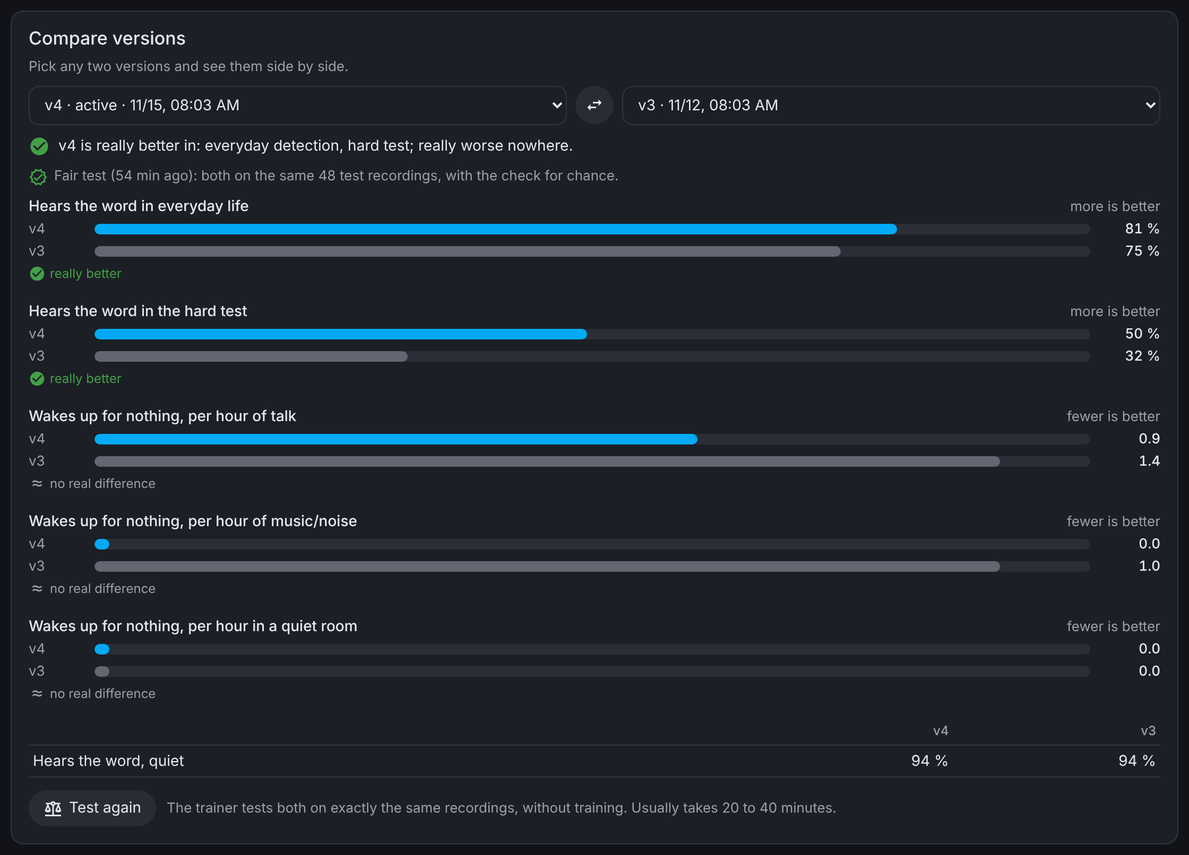
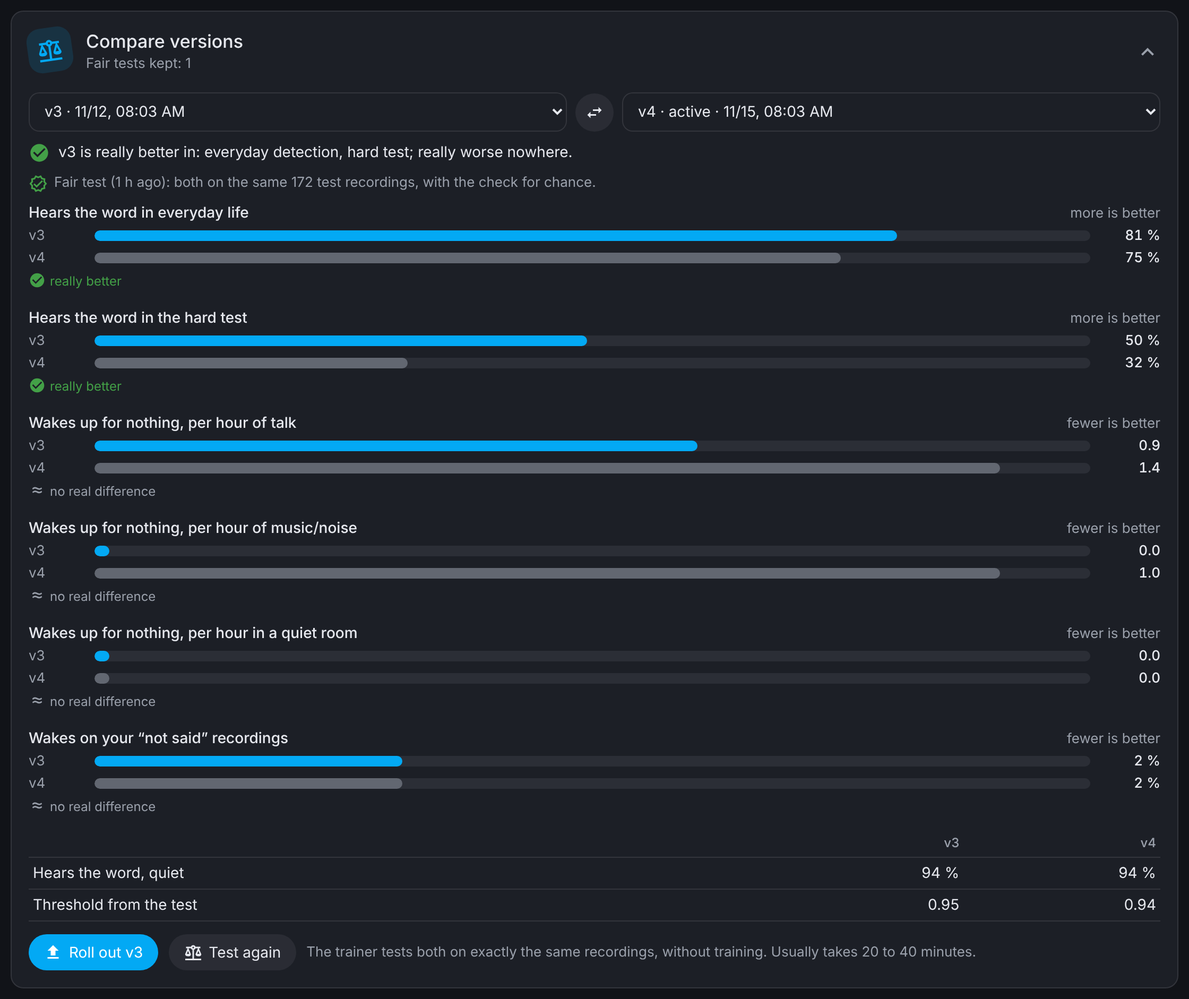
1.0.49: a fair test counts in the version list, roll out from the comparison; trainer 1.0.43 (#64)
- Version list: the state of a version follows a fair test against the
  active version (better / as good / worse, marked as fair test); the
  details show the fair test first, the training run's comparison below
- Compare versions: 'Roll out vN' when the other version is really
  better than the active one; thresholds of a fair test are shown
- Nothing is rolled out by itself after a fair test
- Trainer 1.0.43: a fair test no longer makes training voices (up to
  90 minutes), only the test sets if missing; log says it is a test

Claude-Session: https://claude.ai/code/session_015s6FHN9RtFzjRTkpWD3kXZ

diff --git a/custom_components/sprachmodell/frontend/sprachmodell-texte.js b/custom_components/sprachmodell/frontend/sprachmodell-texte.js
@@ -140,8 +140,9 @@ export const TEXTE = {
     q_modell_schwelle: 'Modell-Schwelle {w}', q_keine: 'Noch keine Version.', q_alltag: 'Im Alltag (aus deinen Antworten)',
     q_schwelle: 'Schwelle aus deinen Antworten', q_vorschlag: 'Vorschlag: <b>{w}</b>', q_jetzt: '(jetzt {w})', q_uebernehmen: 'An den Geräten übernehmen',
     q_vorschlag_spaeter: 'Ein Vorschlag kommt, sobald zur aktiven Version mindestens 10 richtige und 5 falsche Aufwach-Aufnahmen geprüft sind.',
-    q_hand_titel: 'Eigene Schwelle', q_hand_setzen: 'Setzen', q_hand_hilfe: 'Höher = springt seltener grundlos an, hört aber schlechter. Gilt für alle Geräte dieses Worts.', q_hand_auto: 'Setzen schaltet die automatische Anpassung für dieses Wort aus, damit dein Wert bleibt. Unter Training → Automatisch kannst du sie wieder einschalten.', q_hand_info: 'Von Hand am {z} auf {w} gesetzt. Bleibt so, bis du ihn änderst oder die automatische Anpassung einschaltest.', q_hand_frage_auto: 'Schwelle an den Geräten dieses Worts auf {w} setzen? Die automatische Anpassung wird dafür ausgeschaltet.', q_hand_bereich: 'Bitte einen Wert zwischen 0,50 und 0,99 eingeben.', kl_einzelwerte: 'Einzelwerte, Vergleich und je Person', kl_an: 'An: {l}', kl_alles_aus: 'Alles aus', kl_laeufe: '{n} Läufe · zuletzt {e}, {z}', kl_jetzt: 'jetzt {w}', kl_vorschlag: 'Vorschlag {w}', kl_auto: 'passt sich selbst an', kl_hand: 'von Hand', kl_fest: 'fest', kl_versionen: '{n} Versionen · aktiv {a} · neueste {z}', kl_fair: '{n} faire Tests gespeichert', vz_vorbereiten: 'Zutaten', vz_aufnahmen: 'Aufnahmen', vz_pruefdaten: 'Prüfdaten', vz_modelle: 'Versionen holen', vz_urteil: 'Urteil', vz_s_modelle: 'v{a} und v{b} werden aus Home Assistant geholt', vz_s_pruefdaten: 'Prüfdaten bereitstellen: ähnliche Wörter und künstliche Stimmen (meist schon vom letzten Training da)', vz_a_laeuft: 'v{a} wird getestet, v{b} folgt', vz_b_wartet: 'v{b} wird getestet', vz_gleichauf: 'bisher gleichauf', vz_vorn: 'bisher vorn: v{v}', vz_t_lagen: 'Alltagslagen', vz_t_aehnlich: 'Ähnliche Wörter', vz_t_gerede: 'Gespräch', vz_t_geraeusch: 'Musik/Geräusche', vz_t_stille: 'Stiller Raum', vz_fertig: 'fertig getestet', vz_gehoert: '{n} von {g} Aufnahmen', vz_wartet: 'wartet', vz_fehl_wert: '{n} in {m} min', vz_hoert: 'Hört das Wort', vz_hart: 'Härtetest', vz_springt: 'Springt grundlos an', vz_f_gerede: 'Gespräch', vz_f_geraeusch: 'Musik/Geräusche', vz_f_stille: 'Stiller Raum', vz_vorlaeufig: 'Live-Zwischenstand bei Schwelle 0,90. Das Urteil am Ende nutzt die getestete Schwelle und die Prüfung auf Zufall.', vz_s_urteil: 'Beide sind getestet, das Urteil wird berechnet und an Home Assistant geschickt.', s_vgl_modelle: 'v{a} und v{b} holen', s_vgl_a: 'v{a} testen', s_vgl_b: 'v{b} testen', s_vgl_urteil: 'Urteil v{a} gegen v{b}', vf_titel: 'Versionen vergleichen', vf_hilfe: 'Zwei beliebige Versionen wählen und nebeneinander sehen.', vf_version: 'Version', vf_aktiv: 'aktiv', vf_tauschen: 'Tauschen', vf_gleich_lauf: 'Im selben Lauf auf denselben Aufnahmen gemessen (beim Training von v{v}), mit Prüfung auf Zufall.', vf_getrennt: 'Werte aus getrennten Läufen: v{a} und v{b} wurden zu verschiedenen Zeiten auf verschiedenen Testaufnahmen gemessen. Nur grob vergleichbar, ein fairer Test sagt es genau.', vf_fair: 'Fairer Test ({z}): beide auf denselben {n} Testaufnahmen, mit Prüfung auf Zufall.', vf_ruhig: 'Hört das Wort, ruhig', vf_u_besser: 'v{a} ist wirklich besser bei: {k}; nirgends wirklich schlechter.', vf_u_schlechter: 'v{a} ist wirklich schlechter bei: {k}.', vf_u_gleich: 'Kein echter Unterschied zwischen v{a} und v{b}.', vf_schwelle: 'Schwelle aus dem Test', vf_testaufnahmen: 'Testaufnahmen mit dem Wort', vf_fair_testen: 'Fair testen', vf_neu_testen: 'Neu testen', vf_fair_hilfe: 'Der Trainer testet beide auf genau denselben Aufnahmen, ohne zu trainieren. Dauert meist 20 bis 40 Minuten.', vf_trainer_alt: 'Dafür braucht der Trainer Version 1.0.40 oder neuer (Einstellungen → Trainer → neu starten holt sie).', vf_belegt: 'Geht, sobald der Trainer mit diesem Wort fertig ist.', vf_frage: 'v{a} und v{b} jetzt fair testen? Der Trainer ist dabei etwa 20 bis 40 Minuten belegt.', vf_gestartet: 'Fairer Test ist in der Reihe.', vf_wartet: 'Fairer Test v{a} gegen v{b} wartet auf den Trainer.', vf_laeuft_jetzt: 'Fairer Test v{a} gegen v{b} läuft.', vf_zum_training: 'Fortschritt ansehen', vf_titel_lauf: 'Fairer Test: v{a} gegen v{b} (kein Training)', vf_fertig: 'Fairer Test v{a} gegen v{b} ist fertig.', vf_ansehen: 'Ergebnis ansehen', grund_vergleich: 'fairer Test zweier Versionen', f_trainer_zu_alt: 'Der Trainer ist zu alt für den fairen Test (braucht 1.0.40)', f_laeuft_schon: 'Für dieses Wort läuft schon etwas', f_gleiche_version: 'Bitte zwei verschiedene Versionen wählen',q_legende: 'Grün = Wort gesagt, Rot = nicht gesagt, Strich = jetzige Schwelle, gestrichelt = Vorschlag. Ein Fehlauslöser zählt so schwer wie drei verpasste Worte.', q_legende_hand: 'Nichts ändert sich von selbst.',
+    q_hand_titel: 'Eigene Schwelle', q_hand_setzen: 'Setzen', q_hand_hilfe: 'Höher = springt seltener grundlos an, hört aber schlechter. Gilt für alle Geräte dieses Worts.', q_hand_auto: 'Setzen schaltet die automatische Anpassung für dieses Wort aus, damit dein Wert bleibt. Unter Training → Automatisch kannst du sie wieder einschalten.', q_hand_info: 'Von Hand am {z} auf {w} gesetzt. Bleibt so, bis du ihn änderst oder die automatische Anpassung einschaltest.', q_hand_frage_auto: 'Schwelle an den Geräten dieses Worts auf {w} setzen? Die automatische Anpassung wird dafür ausgeschaltet.', q_hand_bereich: 'Bitte einen Wert zwischen 0,50 und 0,99 eingeben.', kl_einzelwerte: 'Einzelwerte, Vergleich und je Person', kl_an: 'An: {l}', kl_alles_aus: 'Alles aus', kl_laeufe: '{n} Läufe · zuletzt {e}, {z}', kl_jetzt: 'jetzt {w}', kl_vorschlag: 'Vorschlag {w}', kl_auto: 'passt sich selbst an', kl_hand: 'von Hand', kl_fest: 'fest', kl_versionen: '{n} Versionen · aktiv {a} · neueste {z}', kl_fair: 'Gespeicherte faire Tests: {n}', vz_vorbereiten: 'Zutaten', vz_aufnahmen: 'Aufnahmen', vz_pruefdaten: 'Prüfdaten', vz_modelle: 'Versionen holen', vz_urteil: 'Urteil', vz_s_modelle: 'v{a} und v{b} werden aus Home Assistant geholt', vz_s_pruefdaten: 'Prüfdaten bereitstellen: ähnliche Wörter und künstliche Stimmen (meist schon vom letzten Training da)', vz_a_laeuft: 'v{a} wird getestet, v{b} folgt', vz_b_wartet: 'v{b} wird getestet', vz_gleichauf: 'bisher gleichauf', vz_vorn: 'bisher vorn: v{v}', vz_t_lagen: 'Alltagslagen', vz_t_aehnlich: 'Ähnliche Wörter', vz_t_gerede: 'Gespräch', vz_t_geraeusch: 'Musik/Geräusche', vz_t_stille: 'Stiller Raum', vz_fertig: 'fertig getestet', vz_gehoert: '{n} von {g} Aufnahmen', vz_wartet: 'wartet', vz_fehl_wert: '{n} in {m} min', vz_hoert: 'Hört das Wort', vz_hart: 'Härtetest', vz_springt: 'Springt grundlos an', vz_f_gerede: 'Gespräch', vz_f_geraeusch: 'Musik/Geräusche', vz_f_stille: 'Stiller Raum', vz_vorlaeufig: 'Live-Zwischenstand bei Schwelle 0,90. Das Urteil am Ende nutzt die getestete Schwelle und die Prüfung auf Zufall.', vz_s_urteil: 'Beide sind getestet, das Urteil wird berechnet und an Home Assistant geschickt.', s_vgl_modelle: 'v{a} und v{b} holen', s_vgl_a: 'v{a} testen', s_vgl_b: 'v{b} testen', s_vgl_urteil: 'Urteil v{a} gegen v{b}', vf_titel: 'Versionen vergleichen', vf_hilfe: 'Zwei beliebige Versionen wählen und nebeneinander sehen.', vf_version: 'Version', vf_aktiv: 'aktiv', vf_tauschen: 'Tauschen', vf_gleich_lauf: 'Im selben Lauf auf denselben Aufnahmen gemessen (beim Training von v{v}), mit Prüfung auf Zufall.', vf_getrennt: 'Werte aus getrennten Läufen: v{a} und v{b} wurden zu verschiedenen Zeiten auf verschiedenen Testaufnahmen gemessen. Nur grob vergleichbar, ein fairer Test sagt es genau.', vf_fair: 'Fairer Test ({z}): beide auf denselben {n} Testaufnahmen, mit Prüfung auf Zufall.', vf_ruhig: 'Hört das Wort, ruhig', vf_u_besser: 'v{a} ist wirklich besser bei: {k}; nirgends wirklich schlechter.', vf_u_schlechter: 'v{a} ist wirklich schlechter bei: {k}.', vf_u_gleich: 'Kein echter Unterschied zwischen v{a} und v{b}.', vf_schwelle: 'Schwelle aus dem Test', vf_testaufnahmen: 'Testaufnahmen mit dem Wort', vf_fair_testen: 'Fair testen', vf_neu_testen: 'Neu testen', vf_fair_hilfe: 'Der Trainer testet beide auf genau denselben Aufnahmen, ohne zu trainieren. Dauert meist 20 bis 40 Minuten.', vf_trainer_alt: 'Dafür braucht der Trainer Version 1.0.40 oder neuer (Einstellungen → Trainer → neu starten holt sie).', vf_belegt: 'Geht, sobald der Trainer mit diesem Wort fertig ist.', vf_frage: 'v{a} und v{b} jetzt fair testen? Der Trainer ist dabei etwa 20 bis 40 Minuten belegt.', vf_gestartet: 'Fairer Test ist in der Reihe.', vf_wartet: 'Fairer Test v{a} gegen v{b} wartet auf den Trainer.', vf_laeuft_jetzt: 'Fairer Test v{a} gegen v{b} läuft.', vf_zum_training: 'Fortschritt ansehen', vf_titel_lauf: 'Fairer Test: v{a} gegen v{b} (kein Training)', vf_fertig: 'Fairer Test v{a} gegen v{b} ist fertig.', vf_ansehen: 'Ergebnis ansehen', grund_vergleich: 'fairer Test zweier Versionen', f_trainer_zu_alt: 'Der Trainer ist zu alt für den fairen Test (braucht 1.0.40)', f_laeuft_schon: 'Für dieses Wort läuft schon etwas', f_gleiche_version: 'Bitte zwei verschiedene Versionen wählen',q_legende: 'Grün = Wort gesagt, Rot = nicht gesagt, Strich = jetzige Schwelle, gestrichelt = Vorschlag. Ein Fehlauslöser zählt so schwer wie drei verpasste Worte.', q_legende_hand: 'Nichts ändert sich von selbst.',
     q_keine_werte: 'Noch keine geprüften Aufnahmen mit Wert.', q_versionen: 'Versionen', q_version: 'Version', q_stand: 'Stand',
+    s_fair_besser: 'besser (fairer Test)', s_fair_gleich: 'gleich gut (fairer Test)', s_fair_schlechter: 'schlechter (fairer Test)', q_fair_hinweis: 'Fairer Test ({z}) gegen die aktive v{b}, beide auf denselben {n} Testaufnahmen. Er ist neuer als der Vergleich aus dem Training und bestimmt deshalb den Stand. Eingespielt wird nur, wenn du es antippst.', q_lauf_titel: 'Beim Training gemessen', vf_einspielen: 'v{n} einspielen',
     s_aktiv: 'aktiv', s_frueher: 'früher', s_geprueft: 'besser, nicht eingespielt', s_verworfen: 'nicht besser', s_neu: 'neu',
     q_einspielen: 'Einspielen', q_einspielen_frage: 'Version v{n} an den Geräten dieses Worts einspielen? Sie ist nach dem nächsten Neustart von Home Assistant auf den Geräten (eine Reparaturmeldung bietet ihn an).',
     q_schwelle_frage: 'Schwelle an den Geräten dieses Worts auf {w} setzen?', q_schwelle_ok: 'Schwelle gesetzt.', q_wird: 'Version v{n} ist bereit – nach einem Neustart von Home Assistant ist sie auf den Geräten.',
@@ -356,8 +357,9 @@ export const TEXTE = {
     q_modell_schwelle: 'Model threshold {w}', q_keine: 'No version yet.', q_alltag: 'In daily use (from your answers)',
     q_schwelle: 'Threshold from your answers', q_vorschlag: 'Suggestion: <b>{w}</b>', q_jetzt: '(now {w})', q_uebernehmen: 'Apply to the devices',
     q_vorschlag_spaeter: 'A suggestion appears once at least 10 correct and 5 false wake-ups of the active version are reviewed.',
-    q_hand_titel: 'Your own threshold', q_hand_setzen: 'Set', q_hand_hilfe: 'Higher = fewer false wakes, but hears less. Applies to all devices of this word.', q_hand_auto: 'Setting it switches the automatic adjustment off for this word so your value stays. Switch it on again under Training → Automatic.', q_hand_info: 'Set by hand on {z} to {w}. Stays until you change it or switch the automatic adjustment on.', q_hand_frage_auto: 'Set the threshold on this word’s devices to {w}? The automatic adjustment is switched off for it.', q_hand_bereich: 'Please enter a value between 0.50 and 0.99.', kl_einzelwerte: 'Detailed figures, comparison and per person', kl_an: 'On: {l}', kl_alles_aus: 'All off', kl_laeufe: '{n} runs · last {e}, {z}', kl_jetzt: 'now {w}', kl_vorschlag: 'suggestion {w}', kl_auto: 'adjusts itself', kl_hand: 'set by hand', kl_fest: 'fixed', kl_versionen: '{n} versions · active {a} · newest {z}', kl_fair: '{n} fair tests kept', vz_vorbereiten: 'Ingredients', vz_aufnahmen: 'Recordings', vz_pruefdaten: 'Check data', vz_modelle: 'Fetch versions', vz_urteil: 'Verdict', vz_s_modelle: 'Fetching v{a} and v{b} from Home Assistant', vz_s_pruefdaten: 'Preparing check data: similar words and synthetic voices (usually still there from the last training)', vz_a_laeuft: 'Testing v{a}, v{b} follows', vz_b_wartet: 'Testing v{b}', vz_gleichauf: 'level so far', vz_vorn: 'ahead so far: v{v}', vz_t_lagen: 'Everyday conditions', vz_t_aehnlich: 'Similar words', vz_t_gerede: 'Talk', vz_t_geraeusch: 'Music/noise', vz_t_stille: 'Quiet room', vz_fertig: 'tested', vz_gehoert: '{n} of {g} recordings', vz_wartet: 'waiting', vz_fehl_wert: '{n} in {m} min', vz_hoert: 'Hears the word', vz_hart: 'Hard test', vz_springt: 'Wakes up for nothing', vz_f_gerede: 'Talk', vz_f_geraeusch: 'Music/noise', vz_f_stille: 'Quiet room', vz_vorlaeufig: 'Live interim figures at threshold 0.90. The verdict at the end uses the tested threshold and the check for chance.', vz_s_urteil: 'Both are tested; the verdict is being worked out and sent to Home Assistant.', s_vgl_modelle: 'Fetching v{a} and v{b}', s_vgl_a: 'Testing v{a}', s_vgl_b: 'Testing v{b}', s_vgl_urteil: 'Verdict v{a} against v{b}', vf_titel: 'Compare versions', vf_hilfe: 'Pick any two versions and see them side by side.', vf_version: 'Version', vf_aktiv: 'active', vf_tauschen: 'Swap', vf_gleich_lauf: 'Measured in the same run on the same recordings (when v{v} was trained), with the check for chance.', vf_getrennt: 'Figures from separate runs: v{a} and v{b} were measured at different times on different test recordings. Only roughly comparable; a fair test tells exactly.', vf_fair: 'Fair test ({z}): both on the same {n} test recordings, with the check for chance.', vf_ruhig: 'Hears the word, quiet', vf_u_besser: 'v{a} is really better in: {k}; really worse nowhere.', vf_u_schlechter: 'v{a} is really worse in: {k}.', vf_u_gleich: 'No real difference between v{a} and v{b}.', vf_schwelle: 'Threshold from the test', vf_testaufnahmen: 'Test recordings with the word', vf_fair_testen: 'Fair test', vf_neu_testen: 'Test again', vf_fair_hilfe: 'The trainer tests both on exactly the same recordings, without training. Usually takes 20 to 40 minutes.', vf_trainer_alt: 'This needs trainer version 1.0.40 or newer (Settings → Trainer → restart fetches it).', vf_belegt: 'Possible once the trainer is done with this word.', vf_frage: 'Test v{a} and v{b} fairly now? The trainer is busy for about 20 to 40 minutes.', vf_gestartet: 'Fair test is queued.', vf_wartet: 'Fair test v{a} against v{b} is waiting for the trainer.', vf_laeuft_jetzt: 'Fair test v{a} against v{b} is running.', vf_zum_training: 'See progress', vf_titel_lauf: 'Fair test: v{a} against v{b} (no training)', vf_fertig: 'Fair test v{a} against v{b} is done.', vf_ansehen: 'See the result', grund_vergleich: 'fair test of two versions', f_trainer_zu_alt: 'The trainer is too old for the fair test (needs 1.0.40)', f_laeuft_schon: 'Something is already running for this word', f_gleiche_version: 'Please pick two different versions',q_legende: 'Green = word said, red = not said, line = current threshold, dashed = suggestion. One false wake weighs as much as three missed words.', q_legende_hand: 'Nothing changes by itself.',
+    q_hand_titel: 'Your own threshold', q_hand_setzen: 'Set', q_hand_hilfe: 'Higher = fewer false wakes, but hears less. Applies to all devices of this word.', q_hand_auto: 'Setting it switches the automatic adjustment off for this word so your value stays. Switch it on again under Training → Automatic.', q_hand_info: 'Set by hand on {z} to {w}. Stays until you change it or switch the automatic adjustment on.', q_hand_frage_auto: 'Set the threshold on this word’s devices to {w}? The automatic adjustment is switched off for it.', q_hand_bereich: 'Please enter a value between 0.50 and 0.99.', kl_einzelwerte: 'Detailed figures, comparison and per person', kl_an: 'On: {l}', kl_alles_aus: 'All off', kl_laeufe: '{n} runs · last {e}, {z}', kl_jetzt: 'now {w}', kl_vorschlag: 'suggestion {w}', kl_auto: 'adjusts itself', kl_hand: 'set by hand', kl_fest: 'fixed', kl_versionen: '{n} versions · active {a} · newest {z}', kl_fair: 'Fair tests kept: {n}', vz_vorbereiten: 'Ingredients', vz_aufnahmen: 'Recordings', vz_pruefdaten: 'Check data', vz_modelle: 'Fetch versions', vz_urteil: 'Verdict', vz_s_modelle: 'Fetching v{a} and v{b} from Home Assistant', vz_s_pruefdaten: 'Preparing check data: similar words and synthetic voices (usually still there from the last training)', vz_a_laeuft: 'Testing v{a}, v{b} follows', vz_b_wartet: 'Testing v{b}', vz_gleichauf: 'level so far', vz_vorn: 'ahead so far: v{v}', vz_t_lagen: 'Everyday conditions', vz_t_aehnlich: 'Similar words', vz_t_gerede: 'Talk', vz_t_geraeusch: 'Music/noise', vz_t_stille: 'Quiet room', vz_fertig: 'tested', vz_gehoert: '{n} of {g} recordings', vz_wartet: 'waiting', vz_fehl_wert: '{n} in {m} min', vz_hoert: 'Hears the word', vz_hart: 'Hard test', vz_springt: 'Wakes up for nothing', vz_f_gerede: 'Talk', vz_f_geraeusch: 'Music/noise', vz_f_stille: 'Quiet room', vz_vorlaeufig: 'Live interim figures at threshold 0.90. The verdict at the end uses the tested threshold and the check for chance.', vz_s_urteil: 'Both are tested; the verdict is being worked out and sent to Home Assistant.', s_vgl_modelle: 'Fetching v{a} and v{b}', s_vgl_a: 'Testing v{a}', s_vgl_b: 'Testing v{b}', s_vgl_urteil: 'Verdict v{a} against v{b}', vf_titel: 'Compare versions', vf_hilfe: 'Pick any two versions and see them side by side.', vf_version: 'Version', vf_aktiv: 'active', vf_tauschen: 'Swap', vf_gleich_lauf: 'Measured in the same run on the same recordings (when v{v} was trained), with the check for chance.', vf_getrennt: 'Figures from separate runs: v{a} and v{b} were measured at different times on different test recordings. Only roughly comparable; a fair test tells exactly.', vf_fair: 'Fair test ({z}): both on the same {n} test recordings, with the check for chance.', vf_ruhig: 'Hears the word, quiet', vf_u_besser: 'v{a} is really better in: {k}; really worse nowhere.', vf_u_schlechter: 'v{a} is really worse in: {k}.', vf_u_gleich: 'No real difference between v{a} and v{b}.', vf_schwelle: 'Threshold from the test', vf_testaufnahmen: 'Test recordings with the word', vf_fair_testen: 'Fair test', vf_neu_testen: 'Test again', vf_fair_hilfe: 'The trainer tests both on exactly the same recordings, without training. Usually takes 20 to 40 minutes.', vf_trainer_alt: 'This needs trainer version 1.0.40 or newer (Settings → Trainer → restart fetches it).', vf_belegt: 'Possible once the trainer is done with this word.', vf_frage: 'Test v{a} and v{b} fairly now? The trainer is busy for about 20 to 40 minutes.', vf_gestartet: 'Fair test is queued.', vf_wartet: 'Fair test v{a} against v{b} is waiting for the trainer.', vf_laeuft_jetzt: 'Fair test v{a} against v{b} is running.', vf_zum_training: 'See progress', vf_titel_lauf: 'Fair test: v{a} against v{b} (no training)', vf_fertig: 'Fair test v{a} against v{b} is done.', vf_ansehen: 'See the result', grund_vergleich: 'fair test of two versions', f_trainer_zu_alt: 'The trainer is too old for the fair test (needs 1.0.40)', f_laeuft_schon: 'Something is already running for this word', f_gleiche_version: 'Please pick two different versions',q_legende: 'Green = word said, red = not said, line = current threshold, dashed = suggestion. One false wake weighs as much as three missed words.', q_legende_hand: 'Nothing changes by itself.',
     q_keine_werte: 'No reviewed recordings with a score yet.', q_versionen: 'Versions', q_version: 'Version', q_stand: 'State',
+    s_fair_besser: 'better (fair test)', s_fair_gleich: 'as good (fair test)', s_fair_schlechter: 'worse (fair test)', q_fair_hinweis: 'Fair test ({z}) against the active v{b}, both on the same {n} test recordings. It is newer than the comparison from the training run, so it sets the state. It is rolled out only when you tap it.', q_lauf_titel: 'Measured at the training run', vf_einspielen: 'Roll out v{n}',
     s_aktiv: 'active', s_frueher: 'earlier', s_geprueft: 'better, not rolled out', s_verworfen: 'not better', s_neu: 'new',
     q_einspielen: 'Roll out', q_einspielen_frage: 'Roll out version v{n} to this word’s devices? It reaches them after the next restart of Home Assistant (a repair notice offers it).',
     q_schwelle_frage: 'Set the threshold on this word’s devices to {w}?', q_schwelle_ok: 'Threshold set.', q_wird: 'Version v{n} is ready – after a restart of Home Assistant the devices have it.',

diff --git a/custom_components/sprachmodell/frontend/sprachmodell-panel.js b/custom_components/sprachmodell/frontend/sprachmodell-panel.js
@@ -10,7 +10,7 @@ const TEXTE_DA = import(`./sprachmodell-texte.js${new URL(import.meta.url).searc
   .then((m) => { TEXTE = m.TEXTE; SPRACHNAMEN = m.SPRACHNAMEN; })
   .catch((e) => console.error('Wake Word Studio: texts could not be loaded', e));
 
-const VERSION = '1.0.48';
+const VERSION = '1.0.49';
 const KURVE_VERSIONEN = 12; // how many of the newest versions the curve shows
 const REPO = 'https://github.com/Wadim-dev/WakeWordStudio_ha';
 const BILD = 'ghcr.io/wadim-dev/wake-word-studio-trainer:latest';
@@ -488,6 +488,7 @@ main:not(.still) .ku-linie{animation:ku-zeichnen 1.6s cubic-bezier(.3,.7,.3,1) b
 .ku-flaeche{fill:var(--farbe);opacity:.1}main:not(.still) .ku-flaeche{animation:ku-flaeche 1.2s .5s ease-out both}@keyframes ku-flaeche{from{opacity:0}}
 .ku-punkt circle{fill:var(--card-background-color,#1c1c1c);stroke:var(--farbe);stroke-width:3}.vf-wahl{display:flex;gap:8px;align-items:center;flex-wrap:wrap;margin-bottom:10px}.vf-wahl select{flex:1 1 160px;min-width:0}
 .vf-hinweis{display:flex;gap:6px;align-items:flex-start;margin:6px 0 10px}.vf-hinweis ha-icon{--mdc-icon-size:18px;color:var(--success-color,#43a047);flex:none}.vf-hinweis.grob ha-icon{color:var(--warning-color,#ffa000)}
+.vgl-fair{padding-bottom:4px}.vgl-lauf-titel{margin:16px 0 8px;padding-top:12px;border-top:1px solid var(--divider-color);font-size:13px;font-weight:500;color:var(--secondary-text-color)}
 .vf-fuss{display:flex;gap:10px;align-items:center;flex-wrap:wrap;margin-top:12px}.vf-fuss ha-icon{--mdc-icon-size:18px}.vf-lauf{display:flex;gap:8px;align-items:center;margin:6px 0;font-weight:500}.vf-lauf ha-icon{color:var(--primary-color)}
 .ku-punkt circle.nicht{stroke:var(--secondary-text-color);stroke-width:2;opacity:.8}.ku-punkt circle.aktiv{fill:var(--farbe);filter:drop-shadow(0 0 6px var(--farbe))}
 main:not(.still) .ku-punkt{animation:auftauchen .4s both;animation-delay:calc(.25s + var(--n) * .2s)}
@@ -1289,9 +1290,10 @@ ${this._weg(w, v)}`;
     const B = 600, H = 120, x = (i) => 30 + (i / (vs.length - 1)) * (B - 60), y = (v) => 14 + (1 - (v - lo) / ((hi - lo) || 1)) * (H - 44);
     const pkt = q.map((v, i) => `${x(i).toFixed(1)},${y(v).toFixed(1)}`).join(' ');
     const farbe = this._farbe(this._wortKurz() || {});
+    const nicht = (v) => v.status === 'verworfen' && ((this._fairGegenAktiv(w, v) || {}).vergleich || {}).urteil !== 'besser';
     return `<svg class="kurve" viewBox="0 0 ${B} ${H}" style="--farbe:${esc(farbe)}" aria-label="${esc(this.t('ku_titel'))}">
 <polygon class="ku-flaeche" points="${x(0).toFixed(1)},${H - 24} ${pkt} ${x(vs.length - 1).toFixed(1)},${H - 24}"/><polyline class="ku-linie" points="${pkt}"/>
-${vs.map((v, i) => `<g class="ku-punkt" style="--n:${i}"><circle cx="${x(i).toFixed(1)}" cy="${y(q[i]).toFixed(1)}" r="${v.nr === w.aktiv ? 6 : v.status === 'verworfen' ? 3 : 4}" class="${v.nr === w.aktiv ? 'aktiv' : v.status === 'verworfen' ? 'nicht' : ''}"/><text x="${x(i).toFixed(1)}" y="${(y(q[i]) - 11).toFixed(1)}">${esc(this._pct(q[i]))}</text><text class="ku-v" x="${x(i).toFixed(1)}" y="${H - 6}">v${v.nr}</text></g>`).join('')}</svg>`;
+${vs.map((v, i) => `<g class="ku-punkt" style="--n:${i}"><circle cx="${x(i).toFixed(1)}" cy="${y(q[i]).toFixed(1)}" r="${v.nr === w.aktiv ? 6 : nicht(v) ? 3 : 4}" class="${v.nr === w.aktiv ? 'aktiv' : nicht(v) ? 'nicht' : ''}"/><text x="${x(i).toFixed(1)}" y="${(y(q[i]) - 11).toFixed(1)}">${esc(this._pct(q[i]))}</text><text class="ku-v" x="${x(i).toFixed(1)}" y="${H - 6}">v${v.nr}</text></g>`).join('')}</svg>`;
   }
 
   _alltag() {
@@ -2354,24 +2356,45 @@ ${summe ? `<div class="tb-rahmen"><table class="tb"><tr><th class="tb-r klein">$
   _versionen(w) {
     const zeilen = w.versionen.map((x) => {
       const b = x.bericht || {}, n = b.neu || {}, vg = b.vergleich, offen = this._vglOffen.has(x.nr);
-      const stand = x.status === 'verworfen' && vg && vg.urteil === 'gleich' ? 'gleich' : x.status;
-      const details = vg || b.alt !== undefined;
-      return `<tr class="vrow ${details ? 'klickbar' : ''} ${offen ? 'offen' : ''}" ${details ? `data-vgl="${x.nr}" title="${esc(this.t('q_details'))}"` : ''}><td>${details ? '<ha-icon class="pfeil" icon="mdi:chevron-right"></ha-icon>' : ''}v${x.nr}<div class="klein">${this._datum(x.zeit)}</div></td><td>${this._pct(n.trefferquote)}</td><td>${this._pct(n.trefferquote_alltag)}</td><td>${this._pct(n.trefferquote_schwer)}</td><td>${this._zahl(n.fehlausloeser_pro_stunde, 1)}/${esc(this.t('std'))}</td><td class="${x.status === 'aktiv' ? 'gruen' : ''}">${esc(this.t('s_' + stand))}</td><td class="z">${x.status !== 'aktiv' && this._admin ? `<button class="k" data-a="einspielen" data-nr="${x.nr}">${esc(this.t('q_einspielen'))}</button>` : ''}</td></tr>
-${details ? `<tr class="vdetail" data-vgldetail="${x.nr}" ${offen ? '' : 'hidden'}><td colspan="7"><div class="vgl">${this._vergleich(x)}</div></td></tr>` : ''}`;
+      const fair = this._fairGegenAktiv(w, x), fu = fair ? fair.vergleich.urteil : '';
+      const stand = fair ? 'fair_' + fu : x.status === 'verworfen' && vg && vg.urteil === 'gleich' ? 'gleich' : x.status;
+      const details = fair || vg || b.alt !== undefined;
+      return `<tr class="vrow ${details ? 'klickbar' : ''} ${offen ? 'offen' : ''}" ${details ? `data-vgl="${x.nr}" title="${esc(this.t('q_details'))}"` : ''}><td>${details ? '<ha-icon class="pfeil" icon="mdi:chevron-right"></ha-icon>' : ''}v${x.nr}<div class="klein">${this._datum(x.zeit)}</div></td><td>${this._pct(n.trefferquote)}</td><td>${this._pct(n.trefferquote_alltag)}</td><td>${this._pct(n.trefferquote_schwer)}</td><td>${this._zahl(n.fehlausloeser_pro_stunde, 1)}/${esc(this.t('std'))}</td><td class="${x.status === 'aktiv' || fu === 'besser' ? 'gruen' : ''}">${esc(this.t('s_' + stand))}</td><td class="z">${x.status !== 'aktiv' && this._admin ? `<button class="k ${fu === 'besser' ? 'haupt' : ''}" data-a="einspielen" data-nr="${x.nr}">${esc(this.t('q_einspielen'))}</button>` : ''}</td></tr>
+${details ? `<tr class="vdetail" data-vgldetail="${x.nr}" ${offen ? '' : 'hidden'}><td colspan="7"><div class="vgl">${fair ? this._vergleichFair(x, fair, vg || b.alt !== undefined) : ''}${this._vergleich(x)}</div></td></tr>` : ''}`;
     }).join('');
     return `<div class="tabelle-scroll"><table class="versionen"><tr><th>${esc(this.t('q_version'))}</th><th>${esc(this.t('q_erkannt_ruhig'))}</th><th title="${esc(this.t('q_alltag_t'))}">${esc(this.t('q_alltag_k'))}</th><th title="${esc(this.t('q_schwer_t'))}">${esc(this.t('q_schwer_k'))}</th><th>${esc(this.t('q_fehl'))}</th><th>${esc(this.t('q_stand'))}</th><th></th></tr>${zeilen}</table></div>`;
   }
 
-  _vergleich(x) {
-    const b = x.bericht || {}, vg = b.vergleich;
+  // the newest fair test of version x against the active one, seen from x (null: none). It is newer than the
+  // comparison of the training run, so the state in the list follows it; rolling out stays a tap by hand.
+  _fairGegenAktiv(w, x) {
+    if (w.aktiv == null || x.nr === w.aktiv) return null;
+    const f = (w.vergleiche || []).find((v) => v.vergleich && Array.isArray(v.vergleich.zeilen) && ((v.a === x.nr && v.b === w.aktiv) || (v.b === x.nr && v.a === w.aktiv)));
+    if (!f) return null;
+    const b = f.a === x.nr ? { neu: f.neu, alt: f.alt, alt_nr: w.aktiv, vergleich: f.vergleich } : this._vglUmdrehen(f.neu, f.alt, f.vergleich, w.aktiv);
+    return { ...b, zeit: f.zeit, n: f.test_positiv };
+  }
+
+  _vergleichFair(x, fair, mitLauf) {
+    return `<div class="vgl-fair">${this._vglUrteil(fair.vergleich, x.nr, fair.alt_nr)}<div class="klein vf-hinweis"><ha-icon icon="mdi:check-decagram-outline"></ha-icon><span>${esc(this.t('q_fair_hinweis', { z: this._zeit(fair.zeit), b: fair.alt_nr, n: fair.n ?? '–' }))}</span></div>${this._vglTabelle(fair, x.nr)}</div>${mitLauf ? `<h4 class="vgl-lauf-titel">${esc(this.t('q_lauf_titel'))}</h4>` : ''}`;
+  }
+
+  _vglTabelle(b, nr) {
+    const vg = b.vergleich;
+    if (!vg) return '';
     const wert = (k, v) => v == null ? '–' : k.startsWith('fehlausloeser') ? this._zahl(v, 1) : this._pct(v);
     const name = (z) => z.kennzahl.endsWith('_bei_fa') ? this.t('k_' + z.kennzahl, { fa: this._zahl(z.fa, 1) })
       : z.kennzahl.startsWith('erkannt_') ? this.t('k_erkannt', { b: this.t('b_' + z.kennzahl.slice(8)) })
         : z.kennzahl === 'schwaechste_person' ? this.t('k_schwaechste_person', { p: z.person || '' }) : this.t('k_' + z.kennzahl);
     const icon = { besser: 'mdi:check-circle', schlechter: 'mdi:close-circle', gleich: 'mdi:approximately-equal' };
+    return `<table class="vgl-tab"><tr><th>${esc(this.t(b.alt_nr ? 'q_vgl' : 'q_vgl_vorher', { v: b.alt_nr }))}</th><th class="z">${esc(this.t('q_vgl_neu', { v: nr }))}</th><th class="z">${esc(b.alt_nr ? 'v' + b.alt_nr : this.t('q_vgl_alt'))}</th><th class="z"></th></tr>${vg.zeilen.map((z) => `<tr class="${z.wichtig ? 'wichtig' : ''}"><td>${esc(name(z))}</td><td class="z">${z.kennzahl.endsWith('_bei_fa') && z.neu == null ? esc(this.t('q_nicht_erreicht')) : wert(z.kennzahl, z.neu)}</td><td class="z">${z.kennzahl.endsWith('_bei_fa') && z.alt == null ? esc(this.t('q_nicht_erreicht')) : wert(z.kennzahl, z.alt)}</td><td class="z"><ha-icon class="u-${z.urteil}" icon="${icon[z.urteil]}" title="${esc(this.t('u_' + z.urteil))}"></ha-icon></td></tr>`).join('')}</table>
+<div class="klein" style="margin-top:6px">${esc(this.t('q_vgl_basis', { n: vg.testaufnahmen, h: this._zahl(vg.stunden_rede, 1), g: this._zahl(vg.stunden_geraeusch, 1) }))}</div>`;
+  }
+
+  _vergleich(x) {
+    const b = x.bericht || {}, vg = b.vergleich;
     const kopf = this._urteilZeile(b);
-    const tab = vg ? `<table class="vgl-tab"><tr><th>${esc(this.t(b.alt_nr ? 'q_vgl' : 'q_vgl_vorher', { v: b.alt_nr }))}</th><th class="z">${esc(this.t('q_vgl_neu', { v: x.nr }))}</th><th class="z">${esc(b.alt_nr ? 'v' + b.alt_nr : this.t('q_vgl_alt'))}</th><th class="z"></th></tr>${vg.zeilen.map((z) => `<tr class="${z.wichtig ? 'wichtig' : ''}"><td>${esc(name(z))}</td><td class="z">${z.kennzahl.endsWith('_bei_fa') && z.neu == null ? esc(this.t('q_nicht_erreicht')) : wert(z.kennzahl, z.neu)}</td><td class="z">${z.kennzahl.endsWith('_bei_fa') && z.alt == null ? esc(this.t('q_nicht_erreicht')) : wert(z.kennzahl, z.alt)}</td><td class="z"><ha-icon class="u-${z.urteil}" icon="${icon[z.urteil]}" title="${esc(this.t('u_' + z.urteil))}"></ha-icon></td></tr>`).join('')}</table>
-<div class="klein" style="margin-top:6px">${esc(this.t('q_vgl_basis', { n: vg.testaufnahmen, h: this._zahl(vg.stunden_rede, 1), g: this._zahl(vg.stunden_geraeusch, 1) }))}</div>` : '';
+    const tab = this._vglTabelle(b, x.nr);
     const kand = b.kandidaten ? `<div class="klein" style="margin-top:8px">${esc(this._kandidatText(b.kandidaten))}</div>` : '';
     const raum = b.raumklang ? `<div class="klein" style="margin-top:6px"><ha-icon icon="mdi:home-sound-out" style="--mdc-icon-size:16px;vertical-align:-3px"></ha-icon> ${esc(this.t('rk_bericht', { n: b.raumklang }))}</div>` : '';
     return kopf + this._duell(b, x.nr) + tab + kand + raum;
@@ -2515,11 +2538,14 @@ ${this._vglFrei(w)}`;
     const nr = a.nr, duell = this._duell(bericht, nr, false);
     const na = bericht.neu || {}, nb = bericht.alt || {};
     const zeile = (titel, ka, kb, f) => `<tr><td>${esc(titel)}</td><td class="z">${f(ka)}</td><td class="z">${f(kb)}</td></tr>`;
-    const pct = (x) => this._pct(x);
+    const pct = (x) => this._pct(x), schw = (n) => fair.a === n ? fair.cutoff : (fair.alt || {}).cutoff;
+    // a sure verdict against the active version: the better one can be rolled out right here
+    const vg = sicher ? bericht.vergleich : null;
+    const besser = !vg ? null : vg.urteil === 'besser' && b.nr === w.aktiv ? a.nr : vg.urteil === 'schlechter' && a.nr === w.aktiv ? b.nr : null;
     const tab = `<table class="vgl-tab"><tr><th></th><th class="z">v${a.nr}</th><th class="z">v${b.nr}</th></tr>
 ${zeile(this.t('vf_ruhig'), na.trefferquote, nb.trefferquote, pct)}
-${fair ? '' : zeile(this.t('vf_schwelle'), a.bericht.cutoff, b.bericht.cutoff, (x) => x == null ? '–' : this._zahl(x))}${fair ? '' : zeile(this.t('vf_testaufnahmen'), a.bericht.test_positiv, b.bericht.test_positiv, (x) => x == null ? '–' : String(x))}</table>`;
-    return `${bericht.vergleich ? this._vglUrteil(bericht.vergleich, a.nr, b.nr) : ''}<div class="klein vf-hinweis ${sicher ? '' : 'grob'}"><ha-icon icon="${sicher ? 'mdi:check-decagram-outline' : 'mdi:information-outline'}"></ha-icon><span>${esc(hinweis)}</span></div>${duell}${tab}${this._vglFairKnopf(w, a, b, fair)}`;
+${zeile(this.t('vf_schwelle'), fair ? schw(a.nr) : a.bericht.cutoff, fair ? schw(b.nr) : b.bericht.cutoff, (x) => x == null ? '–' : this._zahl(x))}${fair ? '' : zeile(this.t('vf_testaufnahmen'), a.bericht.test_positiv, b.bericht.test_positiv, (x) => x == null ? '–' : String(x))}</table>`;
+    return `${bericht.vergleich ? this._vglUrteil(bericht.vergleich, a.nr, b.nr) : ''}<div class="klein vf-hinweis ${sicher ? '' : 'grob'}"><ha-icon icon="${sicher ? 'mdi:check-decagram-outline' : 'mdi:information-outline'}"></ha-icon><span>${esc(hinweis)}</span></div>${duell}${tab}${this._vglFairKnopf(w, a, b, fair, besser)}`;
   }
 
   // the verdict in plain words for any pair (the run's own line speaks of taking a version over)
@@ -2531,14 +2557,15 @@ ${fair ? '' : zeile(this.t('vf_schwelle'), a.bericht.cutoff, b.bericht.cutoff, (
     return `<div class="vgl-urteil u-${vg.urteil}"><ha-icon icon="${icon[vg.urteil] || 'mdi:information'}"></ha-icon><span>${esc(text)}</span></div>`;
   }
 
-  _vglFairKnopf(w, a, b, fair) {
+  _vglFairKnopf(w, a, b, fair, besser = null) {
     if (!this._admin) return '';
+    const rein = besser != null ? `<button class="k haupt" data-a="einspielen" data-nr="${besser}"><ha-icon icon="mdi:upload"></ha-icon>${esc(this.t('vf_einspielen', { n: besser }))}</button>` : '';
     const t = w.training || {}, v = t.vergleich, aktiv = LAEUFT.includes(t.phase) || t.phase === 'wartet';
     if (aktiv && v && ((v.a === a.nr && v.b === b.nr) || (v.a === b.nr && v.b === a.nr))) {
-      return `<div class="vf-fuss"><span class="klein"><ha-icon icon="mdi:timer-sand"></ha-icon> ${esc(this.t(t.phase === 'wartet' ? 'vf_wartet' : 'vf_laeuft_jetzt', { a: v.a, b: v.b }))}</span><button class="link" data-reiter="training">${esc(this.t('vf_zum_training'))}<ha-icon icon="mdi:chevron-right"></ha-icon></button></div>`;
+      return `<div class="vf-fuss">${rein}<span class="klein"><ha-icon icon="mdi:timer-sand"></ha-icon> ${esc(this.t(t.phase === 'wartet' ? 'vf_wartet' : 'vf_laeuft_jetzt', { a: v.a, b: v.b }))}</span><button class="link" data-reiter="training">${esc(this.t('vf_zum_training'))}<ha-icon icon="mdi:chevron-right"></ha-icon></button></div>`;
     }
     const grund = !w.kann_vergleichen ? this.t('vf_trainer_alt') : aktiv ? this.t('vf_belegt') : '';
-    return `<div class="vf-fuss"><button class="k ${fair ? '' : 'haupt'}" data-a="vgl_fair" ${grund ? 'disabled' : ''}><ha-icon icon="mdi:scale-balance"></ha-icon>${esc(this.t(fair ? 'vf_neu_testen' : 'vf_fair_testen'))}</button><span class="klein">${esc(grund || this.t('vf_fair_hilfe'))}</span></div>`;
+    return `<div class="vf-fuss">${rein}<button class="k ${fair || rein ? '' : 'haupt'}" data-a="vgl_fair" ${grund ? 'disabled' : ''}><ha-icon icon="mdi:scale-balance"></ha-icon>${esc(this.t(fair ? 'vf_neu_testen' : 'vf_fair_testen'))}</button><span class="klein">${esc(grund || this.t('vf_fair_hilfe'))}</span></div>`;
   }
 
   _vglFreiNeu() {

diff --git a/sprachmodell_trainer/trainer/lauf.py b/sprachmodell_trainer/trainer/lauf.py
@@ -596,8 +596,9 @@ class Lauf:
     def _ausfuehren_lauf(self) -> None:
         self.ordner.mkdir(parents=True, exist_ok=True)
         b = beschleuniger()
-        self.notiz("Training on the graphics card " + str(b.get("name") or "") if self.geraet == "gpu" else
-                   "Training on the processor" + (" (chosen in the studio)" if b.get("gpu") else
+        art = "Fair test, no training:" if self.auftrag.get("vergleich") else "Training"
+        self.notiz(f"{art} on the graphics card " + str(b.get("name") or "") if self.geraet == "gpu" else
+                   f"{art} on the processor" + (" (chosen in the studio)" if b.get("gpu") else
                                                   f" (graphics card not usable: {b.get('grund')})" if b.get("bild") == "gpu" else ""))
         self._abschnitt("vorbereiten", 0, "grunddaten", True)
         g = Grunddaten(self.daten, lambda s: (self._pruefen(), self._abschnitt("vorbereiten", 0.3, s, True)))
@@ -615,7 +616,7 @@ class Lauf:
             raise RuntimeError(f"No voice for language {self.sprache}")
 
         echt = self._echte_aufnahmen()
-        tts = self._stimmen(stimmen, gerede)
+        tts = self._stimmen(stimmen, gerede, nur_test=bool(self.auftrag.get("vergleich")))
         if self.auftrag.get("vergleich"):
             self._vergleichen(dict(self.auftrag["vergleich"]), echt, tts, bg, gerede, rir)
             return
@@ -808,7 +809,10 @@ class Lauf:
 
     # --- kuenstliche Stimmen ------------------------------------------------
 
-    def _stimmen(self, stimmen: dict[str, list[Path]], gerede: dict[str, Path]) -> dict[str, Path]:
+    def _stimmen(self, stimmen: dict[str, list[Path]], gerede: dict[str, Path],
+                 nur_test: bool = False) -> dict[str, Path]:
+        """nur_test: a fair comparison trains nothing, so only the two held-out test sets are made (if they are
+        missing) and no new training voices; the test sets are the same ones a training run builds."""
         eigen = [str(p) for p in stimmen[self.sprache]]
         halte = eigen[-1]
         lernen = eigen[:-1] or eigen
@@ -825,7 +829,7 @@ class Lauf:
         w = self.wort
         pos_texte = sorted({w, w + "!", w + "?", w + ".", w.lower(), w.capitalize(), w + ", "})
         aehnlich = self._aehnlich_pruefen(aehnliche_woerter(w), lernen)
-        saetze = self._saetze(gerede)
+        saetze = [] if nur_test else self._saetze(gerede)
         aufgaben = [
             ("pos_eigen", POS_EIGEN, pos_texte, lernen, None),
             *[(f"pos_fremd_{i}", POS_FREMD, pos_texte, [v], eigen[0]) for i, v in enumerate(fremd)],
@@ -834,12 +838,12 @@ class Lauf:
             ("test_pos", HALTE_TEST, pos_texte, [halte], None),
             ("test_neg", HALTE_TEST, aehnlich, [halte], None),
         ]
-        gesamt = sum(a[1] for a in aufgaben)
+        machen = [a for a in aufgaben if not nur_test or a[0].startswith("test_")]
+        gesamt = sum(a[1] for a in machen)
         erledigt = 0
-        aus = {}
-        for name, anzahl, texte, voices, lautschrift in aufgaben:
-            ziel = basis / name
-            aus[name] = ziel
+        aus = {a[0]: basis / a[0] for a in aufgaben}
+        for name, anzahl, texte, voices, lautschrift in machen:
+            ziel = aus[name]
             if len(self._wavs(ziel)) < anzahl:  # new, or more clips wanted than last time: it resumes
                 von, bis = erledigt / gesamt, (erledigt + anzahl) / gesamt
                 self._werkzeug_sicher("tts", {"ziel": str(ziel), "anzahl": anzahl, "texte": texte, "stimmen": voices,
@@ -847,6 +851,8 @@ class Lauf:
                                "stimmen", von, bis, "stimmen")
             erledigt += anzahl
         (basis / "aehnlich.txt").write_text("\n".join(aehnlich), encoding="utf-8")
+        if nur_test:
+            return {**aus, "omni_pos": basis / "omni" / "pos", "omni_neg": basis / "omni" / "neg"}
         aus.update(self._omni(basis, pos_texte, aehnlich + saetze[:300]))
         return aus
 

diff --git a/custom_components/sprachmodell/const.py b/custom_components/sprachmodell/const.py
@@ -129,6 +129,6 @@ BEINAHE_AUTO_UNTER = 0.8
 
 # Version of the trainer this studio works with (sprachmodell_trainer/: config.yaml and trainer/__init__.py). It only
 # moves when the trainer itself changes, so a release that only changes the studio does not ask for a trainer restart.
-TRAINER_VERSION = "1.0.42"
+TRAINER_VERSION = "1.0.43"
 VERGLEICH_AB = "1.0.40"  # oldest trainer that can compare two stored versions
 VERGLEICHE_MAX = 20  # fair comparisons kept per word

diff --git a/sprachmodell_trainer/trainer/__init__.py b/sprachmodell_trainer/trainer/__init__.py
@@ -1,3 +1,3 @@
 """Wake Word Studio Trainer."""
 
-__version__ = "1.0.42"
+__version__ = "1.0.43"

diff --git a/CHANGELOG.md b/CHANGELOG.md
@@ -1,5 +1,11 @@
 # Changelog
 
+## 1.0.49
+- **A fair test now counts in the version list** (discussion #63): when a fair test compared a version with the active one, its state in the list follows that test (*better*, *as good* or *worse*, each marked *fair test*) instead of the older comparison from the training run. The details show the fair test first, with all its rows including *Real false wakes of your devices*, and the comparison from the training run below it.
+- **Roll out right from the comparison:** when the fair test (or a run that measured both) says the other version is really better than the active one, *Compare versions* offers *Roll out vN*, and the button in the version list is highlighted. Nothing is rolled out by itself after a fair test: *Roll out a better version by itself* keeps applying to training runs only.
+- *Compare versions* shows the thresholds of a fair test.
+- **Trainer 1.0.43: a fair test is a test only.** It no longer makes new training voices (that took up to 90 minutes and looked like a training run); only the two small test sets are made if they are missing. The log starts with *Fair test, no training*. Update the trainer to get this; an older trainer still works.
+
 ## 1.0.48
 - **Room sound → Listen works in every browser** (#61): the clap response is brought to the browser's own sample rate before it goes into the reverb. Firefox refused it with *Buffer sample rate (16000) does not match AudioContext sample rate (48000)*. If no reviewed recording of the word can be loaded, the clap alone is played instead of an error.
 - **Review no longer ends in a dead end** (#60): when the chosen device is done but others still have recordings, the device chips stay and *Show all …* is offered, instead of *Nothing to review*.

diff --git a/README.md b/README.md
@@ -129,7 +129,7 @@ Everyday detection and a bar per condition (quiet, soft, reverb, music, TV, all 
 
 <p align="center"><img src="https://raw.githubusercontent.com/Wadim-dev/WakeWordStudio_ha/main/docs/images/threshold.png" alt="Setting your own threshold" width="900"></p>
 
-**Compare any two versions:** the card *Compare versions* under *Quality* puts two versions of your choice side by side, with the same questions as the run report. Figures measured in separate runs are marked as only roughly comparable; **Fair test** has the trainer test both on exactly the same recordings, speech and noise (no training, usually 20 to 40 minutes), with the check for chance, and keeps the result.
+**Compare any two versions:** the card *Compare versions* under *Quality* puts two versions of your choice side by side, with the same questions as the run report. Figures measured in separate runs are marked as only roughly comparable; **Fair test** has the trainer test both on exactly the same recordings, speech and noise (no training, usually 20 to 40 minutes), with the check for chance, and keeps the result. A fair test against the active version also sets the state in the version list, and when the other version is really better, *Roll out vN* appears right in the card. Rolling out stays your tap: nothing is rolled out by itself after a fair test.
 
 <p align="center"><img src="https://raw.githubusercontent.com/Wadim-dev/WakeWordStudio_ha/main/docs/images/compare.png" alt="Comparing two versions of your choice" width="900"></p>
 
